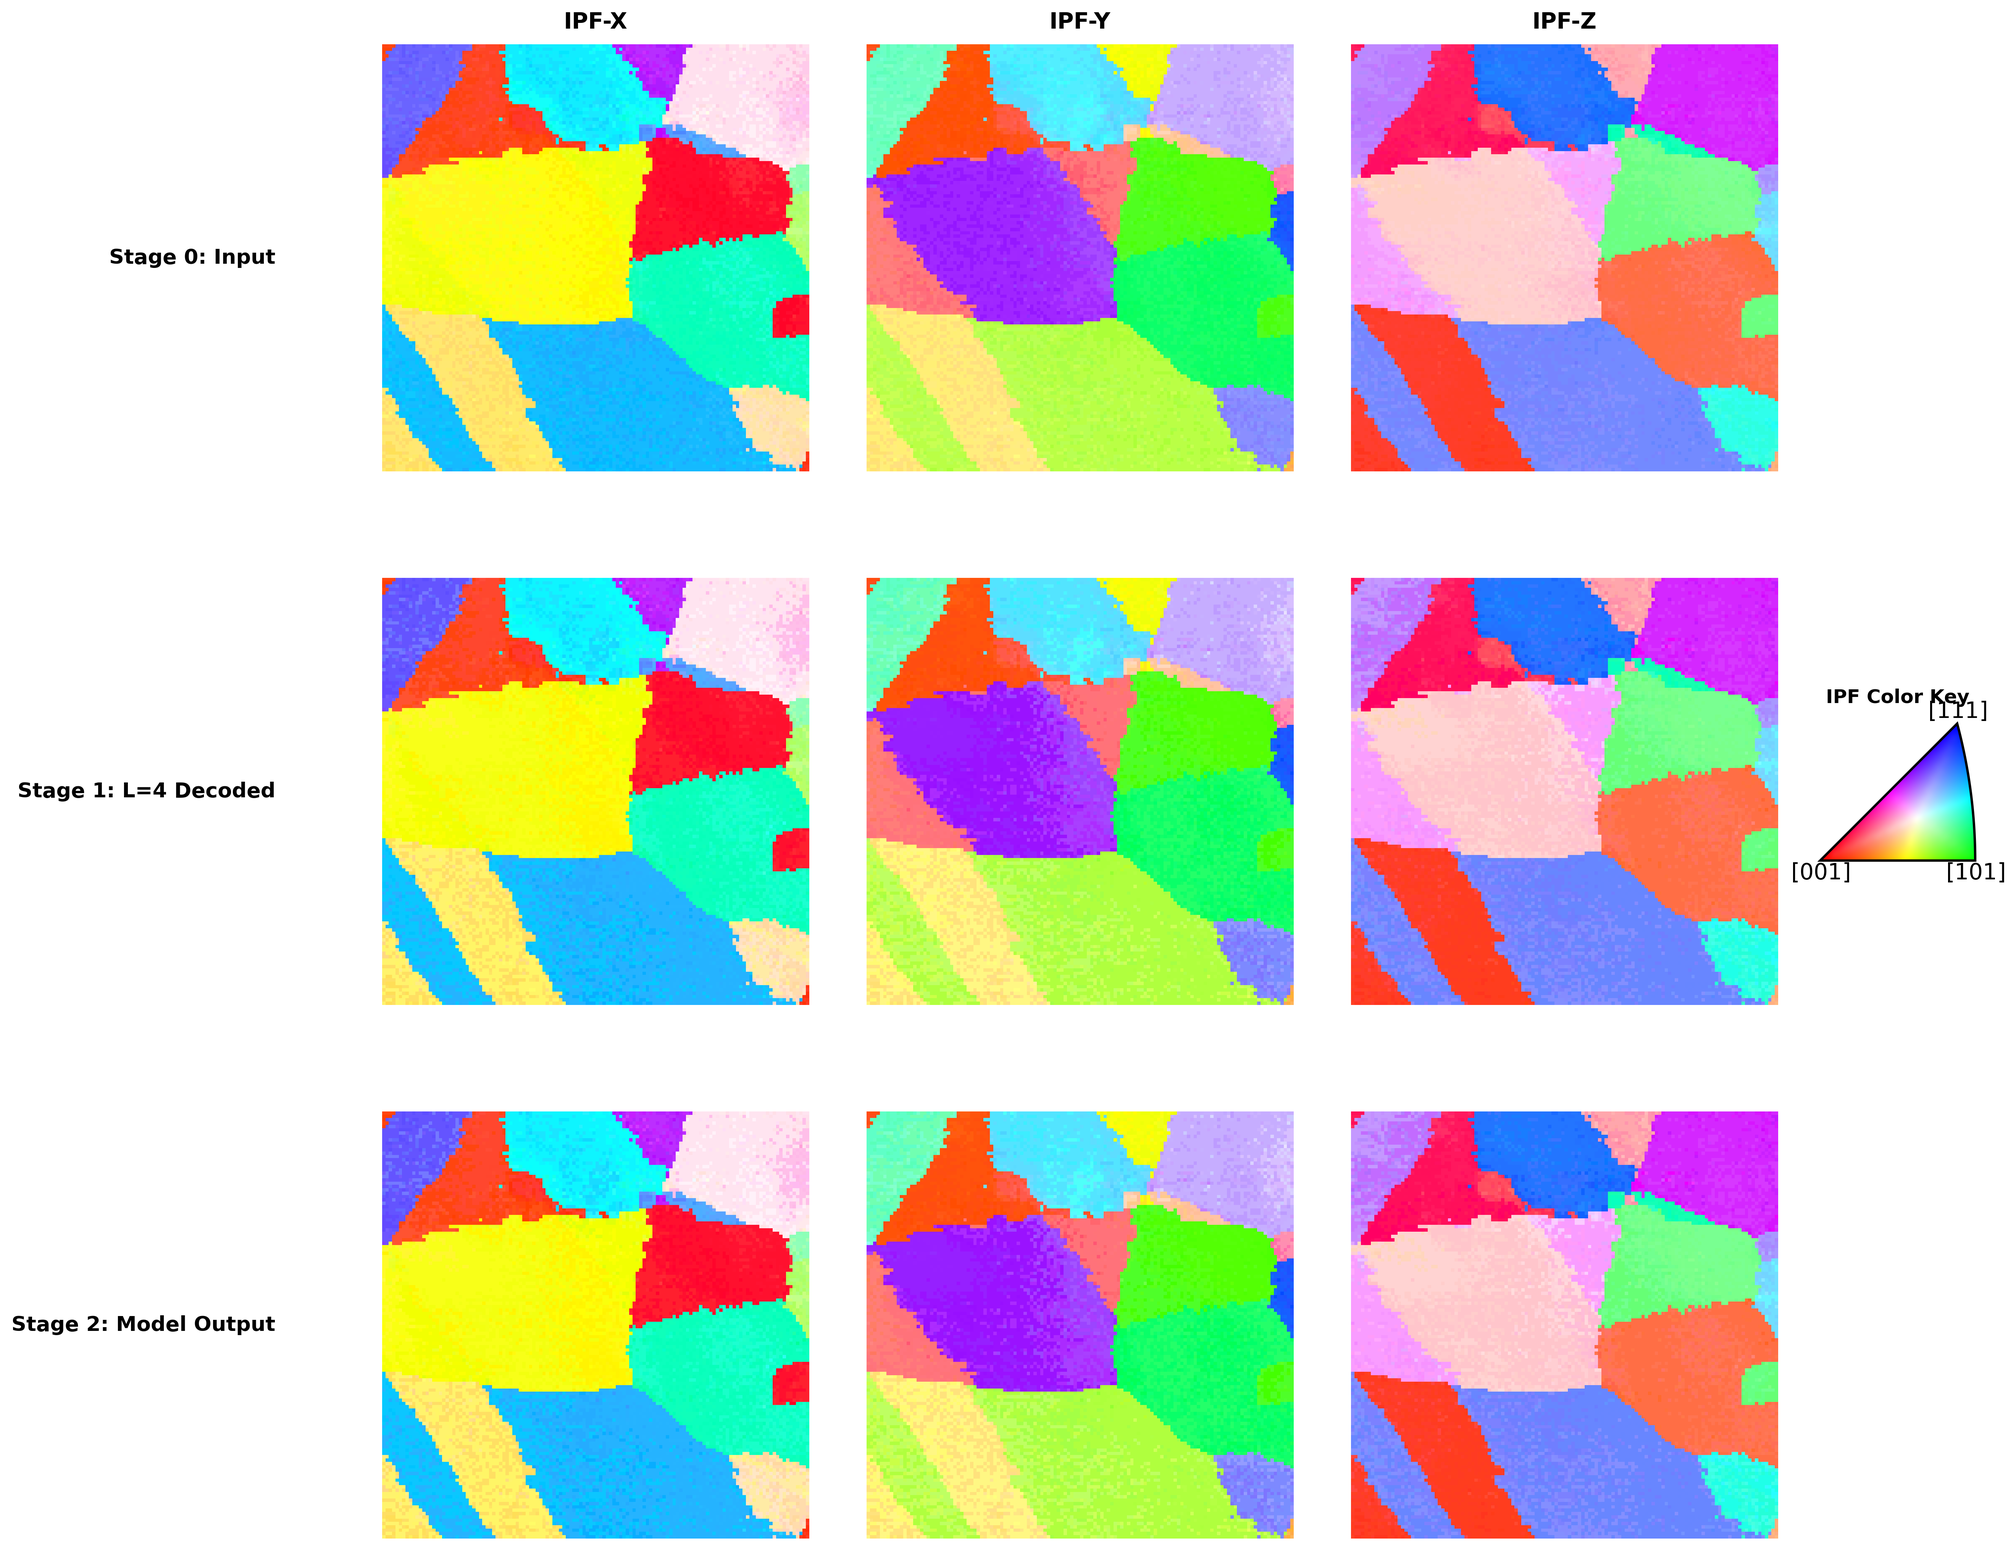
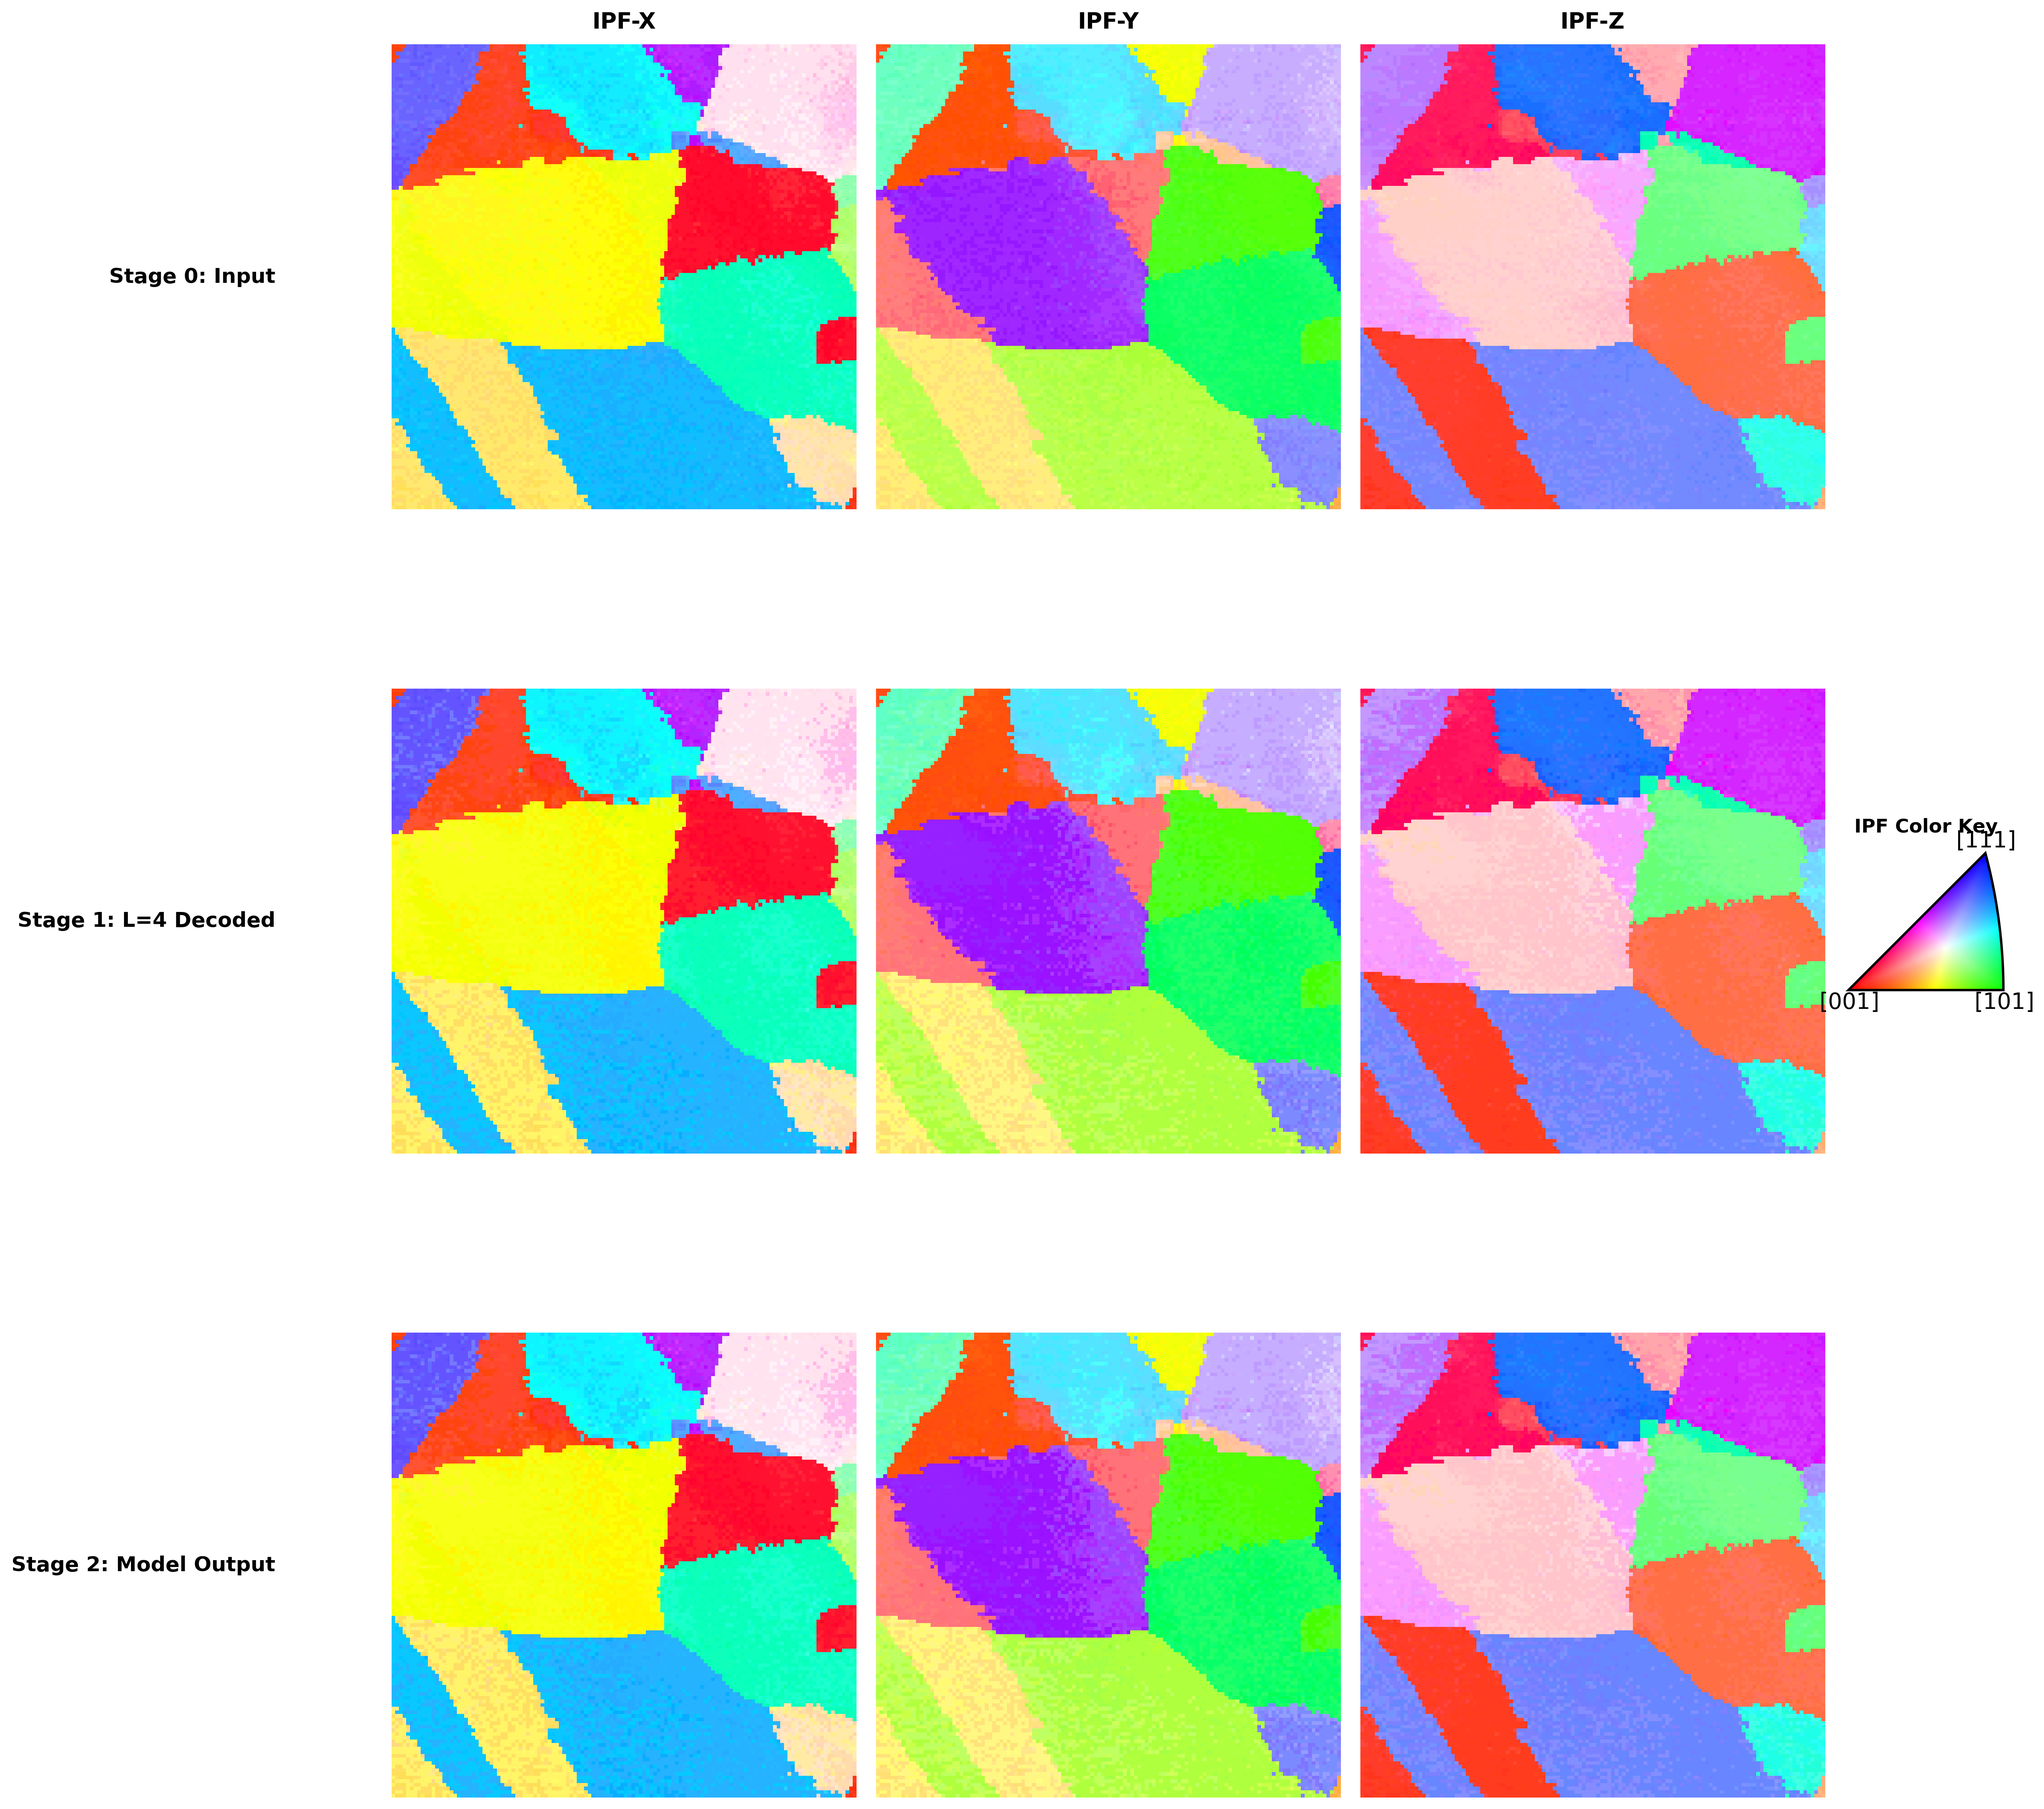
building block by block, hollow network

diff --git a/e3nn_experimentation/super_resolution_building/train_stage_visualizer.py b/e3nn_experimentation/super_resolution_building/train_stage_visualizer.py
@@ -21,9 +21,11 @@ import os
 import sys
 import time
 from pathlib import Path
+import cv2  # OpenCV for image processing
 
 # Add project root to path
 sys.path.append('/data/home/umang/Materials/e3nn_Reynolds')
+sys.path.append('/data/home/umang/Materials/e3nn_Reynolds/e3nn_experimentation')
 
 from e3nn import o3
 from orix.crystal_map import Phase
@@ -107,10 +109,39 @@ class StageDecoder(nn.Module):
 # ==============================================================================
 # STAGE VISUALIZATION (FLEXIBLE)
 # ==============================================================================
+# Duplicating the boundary formation mechanism directly into this script
+
+def generate_boundary_map(quaternions):
+    """
+    Generate boundary map using the exact mechanism from boundary_formation.
+
+    Args:
+        quaternions: Quaternion array (H, W, 4) as numpy array
+
+    Returns:
+        boundary_map: Colored boundary map as a numpy array
+    """
+    # Example mechanism (replace with the exact logic from boundary_formation)
+    H, W, _ = quaternions.shape
+    boundary_map = np.zeros((H, W, 3), dtype=np.uint8)
+
+    # Compute gradients (example logic, replace with actual boundary_formation logic)
+    for i in range(3):
+        grad_x = cv2.Sobel(quaternions[..., i], cv2.CV_64F, 1, 0, ksize=3)
+        grad_y = cv2.Sobel(quaternions[..., i], cv2.CV_64F, 0, 1, ksize=3)
+        # Apply heatmap-style colormap (e.g., viridis) instead of RGB mapping
+        grad_magnitude = np.sqrt(grad_x**2 + grad_y**2)
+        grad_magnitude = (grad_magnitude / grad_magnitude.max() * 255).astype(np.uint8)
+        boundary_map = plt.cm.viridis(grad_magnitude / 255.0)[:, :, :3]  # Normalize and apply colormap
+        boundary_map = (boundary_map * 255).astype(np.uint8)  # Convert to uint8
+
+    return boundary_map
+
+# Modify render_stage_ipf_maps to save boundary maps separately
 def render_stage_ipf_maps(stages_config, img_shape, output_path, fcc_sym):
     """
-    Render IPF maps for each processing stage - FLEXIBLE to any number of stages.
-    
+    Render IPF maps for each processing stage and save boundary maps separately.
+
     Args:
         stages_config: List of dicts, each containing:
             - 'name': Stage name (e.g., "Stage 0: Input")
@@ -120,56 +151,61 @@ def render_stage_ipf_maps(stages_config, img_shape, output_path, fcc_sym):
         fcc_sym: FCC symmetry for IPF rendering
     """
     print("\n" + "="*70)
-    print("RENDERING STAGE-BY-STAGE IPF MAPS")
+    print("RENDERING STAGE-BY-STAGE IPF AND BOUNDARY MAPS")
     print("="*70)
-    
+
     num_stages = len(stages_config)
     print(f"Number of stages: {num_stages}")
-    
+
     # Convert all quaternions to numpy and reshape to images
     stage_images = []
     stage_names = []
-    
+    boundary_maps = []
+
     for i, stage in enumerate(stages_config):
         print(f"Processing {stage['name']}...")
-        
+
         # Convert to numpy if needed
         q = stage['quaternions']
         if torch.is_tensor(q):
             q = q.cpu().numpy()
-        
+
         # Reshape to image
         H, W = img_shape
         q_img = q.reshape(H, W, 4)
         stage_images.append(q_img)
         stage_names.append(stage['name'])
-    
+
+        # Generate boundary map using the duplicated mechanism
+        boundary_map = generate_boundary_map(q_img)
+        boundary_maps.append(boundary_map)
+
     # Render IPF maps (X, Y, Z directions) for all stages
     print("Rendering IPF RGB maps...")
     rgb_stages = []
     for q_img in stage_images:
         rgb = render_ipf_rgb(q_img, fcc_sym, ref_dir="ALL")
         rgb_stages.append(rgb)
-    
+
     # Create flexible figure layout based on number of stages
-    fig_height = 4 + num_stages * 3.5  # Adjust height based on number of stages
+    fig_height = 4 + num_stages * 4.5  # Adjust height based on number of stages
     fig = plt.figure(figsize=(17, fig_height), facecolor='white')
     gs = GridSpec(num_stages, 4, figure=fig, width_ratios=[1, 1, 1, 0.35], 
                   hspace=0.25, wspace=0.05, left=0.12, right=0.95, top=0.95, bottom=0.05)
-    
+
     directions = ['X', 'Y', 'Z']
-    
+
     # Plot each stage
     for row, (stage_name, rgb_list) in enumerate(zip(stage_names, rgb_stages)):
         for col, (direction, rgb) in enumerate(zip(directions, rgb_list)):
             ax = fig.add_subplot(gs[row, col])
             ax.imshow(rgb)
             ax.set_aspect('equal')
-            
+
             # Column headers (only on first row)
             if row == 0:
                 ax.set_title(f"IPF-{direction}", fontsize=14, fontweight='bold', pad=10)
-            
+
             # Row labels (only on first column)
             if col == 0:
                 ax.text(-0.25, 0.5, stage_name, 
@@ -179,19 +215,34 @@ def render_stage_ipf_maps(stages_config, img_shape, output_path, fcc_sym):
                        verticalalignment='center',
                        horizontalalignment='right',
                        rotation=0)
-            
+
             ax.axis('off')
-    
+
     # Add IPF color key (spans all rows)
     ax_key = fig.add_subplot(gs[:, 3], projection='ipf', symmetry=fcc_sym.laue)
     ax_key.plot_ipf_color_key()
     ax_key.set_title("IPF Color Key", fontsize=12, fontweight='bold', pad=10)
-    
+
     # Save figure
     os.makedirs(os.path.dirname(output_path) or '.', exist_ok=True)
     fig.savefig(output_path, dpi=300, bbox_inches='tight', facecolor='white', edgecolor='none')
     plt.close(fig)
     print(f"✓ Saved stage visualization to: {output_path}")
+
+    # Save boundary maps as a separate image
+    boundary_output_path = output_path.replace('.png', '_boundary_maps.png')
+    fig_boundary = plt.figure(figsize=(10, num_stages * 3), facecolor='white')
+    gs_boundary = GridSpec(num_stages, 1, figure=fig_boundary, hspace=0.3)
+
+    for row, (stage_name, boundary_map) in enumerate(zip(stage_names, boundary_maps)):
+        ax = fig_boundary.add_subplot(gs_boundary[row, 0])
+        ax.imshow(boundary_map)
+        ax.set_title(stage_name, fontsize=12, fontweight='bold', pad=10)
+        ax.axis('off')
+
+    fig_boundary.savefig(boundary_output_path, dpi=300, bbox_inches='tight', facecolor='white', edgecolor='none')
+    plt.close(fig_boundary)
+    print(f"✓ Saved boundary maps to: {boundary_output_path}")
 
 
 def match_symmetry_batch(q_truth, q_reconstructed, physics):
@@ -374,6 +425,7 @@ def main():
     print("="*70)
     print(f"Output saved to: {output_dir}/")
     print(f"  - stage_ipf_maps.png: IPF maps at each processing stage")
+    print(f"  - stage_ipf_maps_boundary_maps.png: Boundary maps at each processing stage")
     print(f"\nStages visualized: {len(stages_config)}")
     for i, stage in enumerate(stages_config):
         print(f"  {i}. {stage['name']}")
